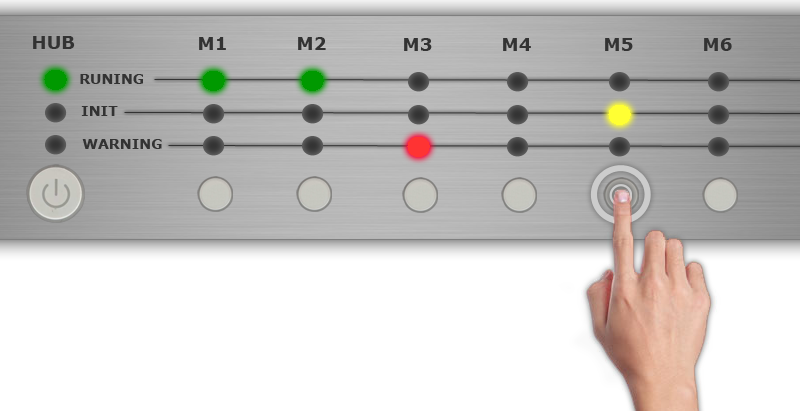
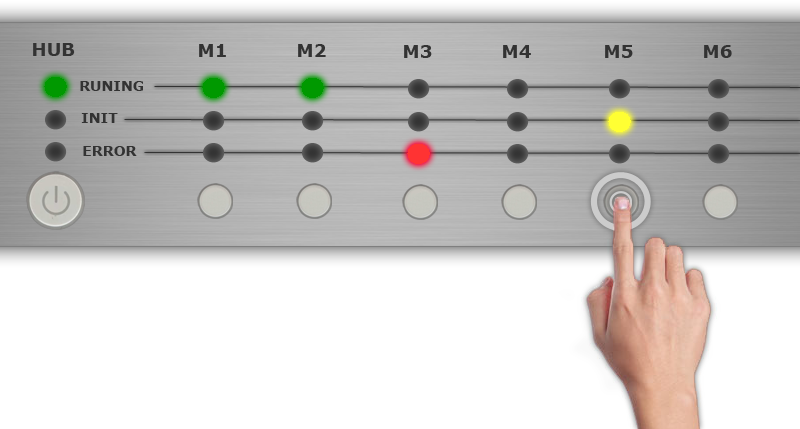
hub_user_interface created

diff --git a/content/launch_phase.tex b/content/launch_phase.tex
@@ -20,14 +20,6 @@
 			F-2 & Routing &  &  \\ \hline
 			F-2.1 & Storage &  & Energy stored is routed to the consumers. \\ \hline
 			F-2.2 & Producers &  & Energy being produced is routed to the storage devices and if full directly routed to the consumers. \\ \hline
-			% &~  &~  &~  \\ \hline
-			% &~  &~  &~  \\  \hline
-			% &~  &~  &~  \\  \hline
-			% &~  &~  &~  \\  \hline
-			% &~  &~  &~  \\  \hline
-			% &~  &~  &~  \\  \hline
-			% &~  &~  &~  \\  \hline
-			% &~  &~  &~  \\  \hline
 		\end{tabular}
 		\caption{Functional: System shall do...}
 		\end{table}
@@ -43,14 +35,6 @@
 			NF-2 & Electrical &  &  \\ \hline
 			NF-2.1 & Voltage &  & The system work in a range 27.5V +-  10\%.\\ \hline
 			NF-2.2 & Current &  & Not defined yet... But very important \\ \hline
-			% &~  &~  &~  \\ \hline
-			% &~  &~  &~  \\  \hline
-			% &~  &~  &~  \\  \hline
-			% &~  &~  &~  \\  \hline
-			% &~  &~  &~  \\  \hline
-			% &~  &~  &~  \\  \hline
-			% &~  &~  &~  \\  \hline
-			% &~  &~  &~  \\  \hline
 		\end{tabular}
 		\caption{Non-Function: System shall be...}
 		\end{table}
@@ -71,14 +55,6 @@
 			B-3 & Disaster Avoid &  & Humidity and Temperature sensor will be placed inside the system housing. \\\hline
 			B-3.1 & Humidity &  & "When the humidity is high, stop system." \\\hline
 			B-3.2 & Temperature &  & "When temperature is high,  stop system." \\\hline
-			% &~  &~  &~  \\\hline
-			% &~  &~  &~  \\  \hline
-			% &~  &~  &~  \\  \hline
-			% &~  &~  &~  \\  \hline
-			% &~  &~  &~  \\  \hline
-			% &~  &~  &~  \\  \hline
-			% &~  &~  &~  \\  \hline
-			% &~  &~  &~  \\  \hline
 		\end{tabular}
 		\caption{Behavioural: How the system shall react...}
 		\end{table}
@@ -90,14 +66,6 @@
 			\textbf{ID} & \textbf{Requirement} & \textbf{Reference} & \textbf{Description} \\ \hline
 			P-1 & Hardware &  &  \\ \hline
 			P-1.1 & Housing &  & The housing have to be water-proof and with a good heat dissipation. \\ \hline
-			% &~  &~  &~  \\  \hline
-			% &~  &~  &~  \\  \hline
-			% &~  &~  &~  \\  \hline
-			% &~  &~  &~  \\  \hline
-			% &~  &~  &~  \\  \hline
-			% &~  &~  &~  \\  \hline
-			% &~  &~  &~  \\  \hline
-			% &~  &~  &~  \\  \hline
 		\end{tabular}
 		\caption{Performance: How well does it have to be done...}
 		\end{table}
@@ -245,33 +213,46 @@
 				\end{table}
 	\newpage	
 	\subsubsection{Interface Analysis}
+	The hardware interface as seen from the users perspective. Note, new modules is connected in the back of the hub.
 		\begin{figure}[h!]		%Remember to put the h!, to not fuck the sections.
 			\begin{centering}
 				 \includegraphics[width=0.8\textwidth]{images/hub_user_interact.png}
 				\caption{User interacting with the physical hub module}
 		 	\end{centering}
 		\end{figure}
-		Some text about how the user interact with the physical hub module.
-	\newpage
+		\\ \textbf{The Hub diode states}
+		\begin{itemize}
+			\item \textbf{Green: }The modules is in Run mode, no problems detected.
+			\item \textbf{Yellow: }The module is powered on, but the user has not requested a startup of the module.
+							The yellow diode also light up if the user stops the system.
+			\item \textbf{Red: }An error has occurred in the system.
+		\end{itemize}
+		\textbf{Submodules state}
+		\begin{itemize}
+			\item \textbf{Green: }Constant light, the module is in Run mode, no problems detected. Flashing light, the module is in standby mode, set by the hub
+							due to over-/underproduction or other.
+			\item \textbf{Yellow: }Constant light, the module is plugged to the hub, but the user has not requested a startup yet or the module has been stopped.
+							During initialization (a startup has been requested) the diode flashes.
+			\item \textbf{Red: }An error has occurred with the connected module.
+		\end{itemize}
+		\newpage
+		The web-interface. In the little comic book user interaction with the system is shown.
 		\begin{figure}[h!]		%Remember to put the h!, to not fuck the sections.
 			\begin{centering}
-				 \includegraphics[width=0.7\textwidth]{images/web_interface1.jpg}
-				\caption{Web interface; user interaction with the web interface1}
+				 \includegraphics[width=0.82\textwidth]{images/web_interface1.jpg}
+				\caption{Web interface; user interaction with the web interface}
 		 	\end{centering}
 		\end{figure}
 
 		\begin{figure}[h!]		%Remember to put the h!, to not fuck the sections.
 			\begin{centering}
-				 \includegraphics[width=0.7\textwidth]{images/web_interface2.jpg}
-				\caption{Web interface; user interaction with the web interface1}
+				 \includegraphics[width=0.68\textwidth]{images/web_interface2.jpg}
+				\caption{Web interface; user interaction with the web interface}
 		 	\end{centering}
 		\end{figure}			
-			
-		\begin{itemize}
-			\item User Interface Descriptions
-				
-			\item System Interface Descriptions
-		\end{itemize}
+		The energy systems webpage is open for everyone. Everyone can go to the webpage and see the status of the system and all of its sub-devices.
+		When the user logs onto the system he gets access to start and stop devices, read the log files, change settings such as, warning mail address,
+		password e.g.
 	\subsubsection{Function Analysis}
 	 \textbf{THIS}
 		\begin{itemize}
@@ -288,6 +269,12 @@
 			\\Describe the data flow when interacting with other systems.
 			\\Diagram of how to put data on the web server.
 			\\Small diagram of how to initialize, start, stop, pause submodules.
+			\begin{figure}[h!]		%Remember to put the h!, to not fuck the sections.
+			\begin{centering}
+				 \includegraphics[width=0.6\textwidth]{images/communication_diagram.png}
+				\caption{...}
+		 	\end{centering}
+		\end{figure}		
 	\subsubsection{General Analysis Specification}
 		 \textbf{THIS}
 \subsection{General Architecture Design}
